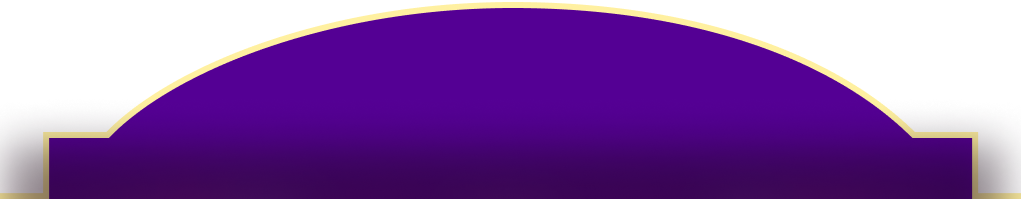
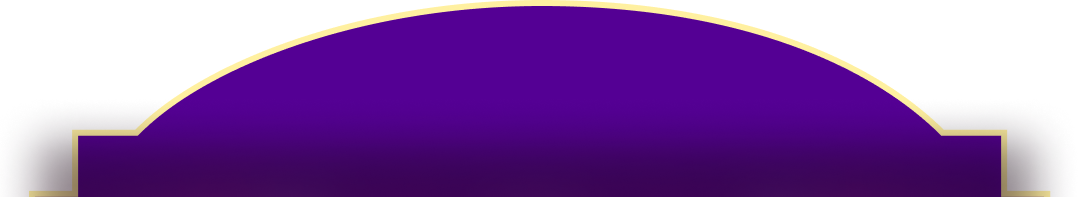
feat: IND - bet record pagination

diff --git a/ind-static-h5/src/pages/account/RecordView.vue b/ind-static-h5/src/pages/account/RecordView.vue
@@ -137,7 +137,7 @@ const pagination = reactive({
   total: 0,
   pages: 1,
   current: 1,
-  pagingState: ""
+  pagingState: null
 });
 
 const onPrevPageClick = () => {
@@ -155,7 +155,7 @@ const onNextPageClick = () => {
 const searchRecord = (isNewSearch) => {
   if (isNewSearch) {
     pagination.current = 1;
-    pagination.pagingState = "";
+    pagination.pagingState = null;
   }
 
   isLoading.value = true;
@@ -175,11 +175,14 @@ const searchRecord = (isNewSearch) => {
       }
     })
     .then((response) => {
+
+
       const { code, data } = response;
       if (code === 0) {
         const records = data.records;
         pagination.total = data.length;
         pagination.pages = data.pages;
+        pagination.pagingState = data.pagingState;
 
         gameBetRecordData.value.push(...records);
 

diff --git a/ind-static-h5/src/components/modal/WithdrawalModal.vue b/ind-static-h5/src/components/modal/WithdrawalModal.vue
@@ -446,7 +446,7 @@ const goToBank = () => {
 
   .withdrawal-modal-view-middle {
     position: relative;
-    background: url(../../assets/images/common/content-frame-middle.png) round top/100% auto;
+    background: url(../../assets/images/common/content-frame-middle-short.png) round top/100% auto;
     min-height: 435px;
     padding: 16px;
     margin-top: -1px;
@@ -640,7 +640,7 @@ const goToBank = () => {
   }
 
   .withdrawal-modal-view-bottom {
-    background: url(../../assets/images/common/content-frame-bottom.png) round top/100% auto;
+    background: url(../../assets/images/common/content-frame-bottom-short.png) round top/100% auto;
     min-height: 50px;
     position: relative;
     margin-bottom: 60px;
